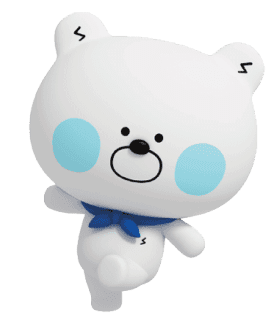
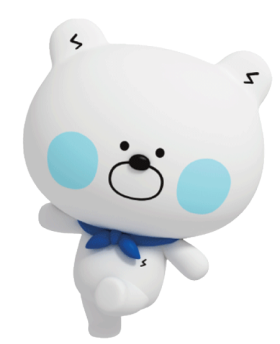
style : 쏠, 레이 이미지 고화질 교체 & 인트로 배경 변경

diff --git a/src/componets/TermQuiz.js b/src/componets/TermQuiz.js
@@ -3,7 +3,7 @@ import axios from "axios";
 import PropTypes from "prop-types";
 import palette from "../styles/color";
 import styles from "./TermQuiz.module.css";
-import LayThinking from "../assets/images/Lay/lay_thinking.svg";
+import LayThinking from "../assets/images/Lay/lay_thinking.png";
 
 const TermQuiz = ({ id, term, items, onQuizFinish }) => {
   // const [termId, setTermId] = useState(0);
@@ -42,8 +42,8 @@ const TermQuiz = ({ id, term, items, onQuizFinish }) => {
   
     setTimeout(() => {
       const quizResult = {
-        userCorrect: apiCorrectResponse.correct,
         userPoint: apiCorrectResponse.point,
+        userCorrect: apiCorrectResponse.correct,
         userAnswerId: index,
         termId: id,
       };
@@ -98,7 +98,7 @@ const TermQuiz = ({ id, term, items, onQuizFinish }) => {
         src={LayThinking}
         alt="레이 고민"
       />
-      <svg
+      {/* <svg
         xmlns="http://www.w3.org/2000/svg"
         width="419"
         height="54"
@@ -115,19 +115,14 @@ const TermQuiz = ({ id, term, items, onQuizFinish }) => {
           d="M372.84 2.76432C297.243 -1.03934 121.194 -0.801625 42.4902 2.76432C-18.609 9.42081 -0.486377 26.2997 15.5651 34.1448C15.5651 38.6617 8.83383 48.1709 30.0632 50.0728C42.4902 53.6387 260.653 54.2727 372.84 51.2614C408.879 50.6909 404.426 40.8013 401.319 34.1448C441.189 15.6018 401.319 4.19722 372.84 2.76432Z"
           fill="#EBF3FC"
         />
-      </svg>
+      </svg> */}
       {/* 헤더 안에 텍스트 */}
       <text
         className={styles.quiz_title}
-        x="150"
-        y="80"
-        width="850"
-        height="300"
         style={{
           position: "absolute",
-          left: 170,
-          top: 80,
-          letterSpacing: "1px",
+          left: 180,
+          top: 40,
         }}
       >
         {term}이 뭘까?

diff --git a/src/pages/Lay/Lay.js b/src/pages/Lay/Lay.js
@@ -6,9 +6,9 @@ import DialogBox from "../../componets/DialogBox";
 import palette from "../../styles/color";
 import MenuBox from "../../componets/MenuBox";
 import CrushBar from "../../componets/CrushBar";
-import LaySmile from "../../assets/images/Lay/lay_smile.svg";
-import LayShiny from "../../assets/images/Lay/lay_shiny.svg";
-import LayThinking from "../../assets/images/Lay/lay_thinking.svg";
+import LaySmile from "../../assets/images/Lay/lay_smile.png";
+import LayShiny from "../../assets/images/Lay/lay_shiny.png";
+import LayThinking from "../../assets/images/Lay/lay_thinking.png";
 import SolSolution from "../../assets/images/sol_solution.png";
 import SolKKK from "../../assets/images/sol_kkk.png";
 import ProgressBar from "../../componets/ProgressBar";

diff --git a/src/pages/Intro/IntroScenario.js b/src/pages/Intro/IntroScenario.js
@@ -1,7 +1,7 @@
 import palette from "../../styles/color";
 import Sol from "../../assets/images/sol_default.png";
 import SolSmile from "../../assets/images/sol_smile.png";
-import SolWhy from "../../assets/images/sol-why.png";
+import SolWhy from "../../assets/images/sol_why.png";
 import LayHi from "../../assets/images/Lay/lay_hi.png";
 import MollyHi from "../../assets/images/Molly/molly_hi.png";
 const introScenario = [
@@ -167,8 +167,8 @@ const introScenario = [
     arrowColor: palette.sol_text,
     menu: {
       show: true,
-      option: ["알겠어!", "미안.."],
-      nextIndex: [12, 14],
+      option: ["알겠어!", "나 맞아~"],
+      nextIndex: [12, 12],
     },
   },
   {

diff --git a/src/pages/Lay/LayResult.js b/src/pages/Lay/LayResult.js
@@ -1,8 +1,8 @@
 import React, { useEffect, useState } from "react";
 import styles from "./LayResult.module.css"
 import palette from "../../styles/color";
-import LayShiny from "../../assets/images/Lay/lay_shiny.svg"
-import LayThinking from "../../assets/images/Lay/lay_thinking.svg"
+import LayShiny from "../../assets/images/Lay/lay_shiny.png"
+import LayThinking from "../../assets/images/Lay/lay_thinking.png"
 import CrushBar from "../../componets/CrushBar";
 import DialogBox from "../../componets/DialogBox";
 import ReactTyped from "react-typed";

diff --git a/src/componets/TermQuiz.module.css b/src/componets/TermQuiz.module.css
@@ -3,20 +3,22 @@
 }
 
 .character_wrap{
-    padding-top: 10px;
-    padding-left: 2cqmax;
+    padding-top: 20px;
+    padding-left: 30px;
     position: relative; 
     z-index: 1;
-    width: 150px;
+    width: 130px;
 }
 
 .quiz_title{
-    margin: 0;
-    width: 486px;
-    height: 61px;
+    width: 500px;
+    background-color: rgba(255, 255, 255, 0.703);
+    padding: 20px;
     text-align: left;
+    line-height: normal;
     font-size: 20px;
     z-index: 1;
+    border-radius: 20px;
 }
 
 .quiz_content{

diff --git a/src/pages/Intro/Intro.module.css b/src/pages/Intro/Intro.module.css
@@ -42,7 +42,7 @@
 
 .solBackground {
   transition: background-color 0.5  s ease;
-  background-image: url("../../assets/images/intro_bg.jpg");
+  background-image: url("../../assets/images/intro_bg.png");
 }
 
 .selectBackground{
@@ -51,7 +51,7 @@
 
 .friendsWrap {
   padding: 68px 20px;
-  width: 1024pz;
+  width: 1024px;
   display: flex;
   justify-content: space-around;
 }

diff --git a/src/pages/Lay/Lay.module.css b/src/pages/Lay/Lay.module.css
@@ -50,9 +50,10 @@
 }
 
 .character_wrap img {
-  width: 360px;
+  position: absolute;
+  bottom: 280px;
+  left: 380px;
 }
-
 
 .dialogText {
   width: 600px;
